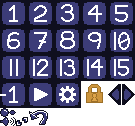
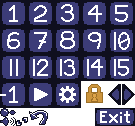
added pause and exit
and player spawnpoint gets set on disk collect

Changed region(s): [[0.6815, 0.8571, 1.0, 1.0]]

diff --git a/screen/level.py b/screen/level.py
@@ -5,6 +5,7 @@ import pygame
 from pygame import Surface
 
 import globalvars
+from screen.component.button import Button
 from screen.screen import Screen
 import audio
 
@@ -18,6 +19,12 @@ class LevelScreen(Screen):
         super().__init__(args)
         self.level = args[0]
         audio.playLevel()
+
+        def on_click():
+            if self.paused:
+                globalvars.CURR_LEVEL=-1
+                globalvars.CURR_SCREEN = globalvars.SCREEN_CONSTRS["select"](())
+        self.components.append(Button(65, 39, 40, 20, on_click))
 
         self.paused=False
         self.last_esc=False
@@ -39,6 +46,9 @@ class LevelScreen(Screen):
         self.level.render(screen)
         if self.paused:
             screen.blit(LevelScreen.PAUSE_OVERLAY, (0,0), )
+            screen.blit(globalvars.IMAGES["buttons"], (65, 39), (95,108, 40,20))
+
+        super().render(screen)
 
         color = (0, 200, 0) if self.level.finished else (100, 100, 100)
         pygame.draw.rect(screen, color, (137,0, 39, 7))

diff --git a/entity/disk.py b/entity/disk.py
@@ -31,6 +31,7 @@ class DiskEntity(Entity):
         if self.collected is False and self.level.player_entity.colliding(self):
             self.collected=0
             self.level.finished = True
+            self.level.player_entity.spawnpoint=(self.x+8,self.y+4)
             audio.collect()
             self.win_effect = WinEffect(self.x+8,self.y+4)
             self.win_effect.init(self.level)

diff --git a/screen/select.py b/screen/select.py
@@ -63,4 +63,4 @@ class SelectScreen(Screen):
 
         self.screen.blit(globalvars.IMAGES["buttons"], (10,50), (108, 81, 13, 27))
         self.screen.blit(globalvars.IMAGES["buttons"], (153,50), (122, 81, 13, 27))
-        screen.blit(globalvars.IMAGES["buttons"], (5,79), (29,110, 19,15))
+        self.screen.blit(globalvars.IMAGES["buttons"], (5,79), (29,110, 19,15))
